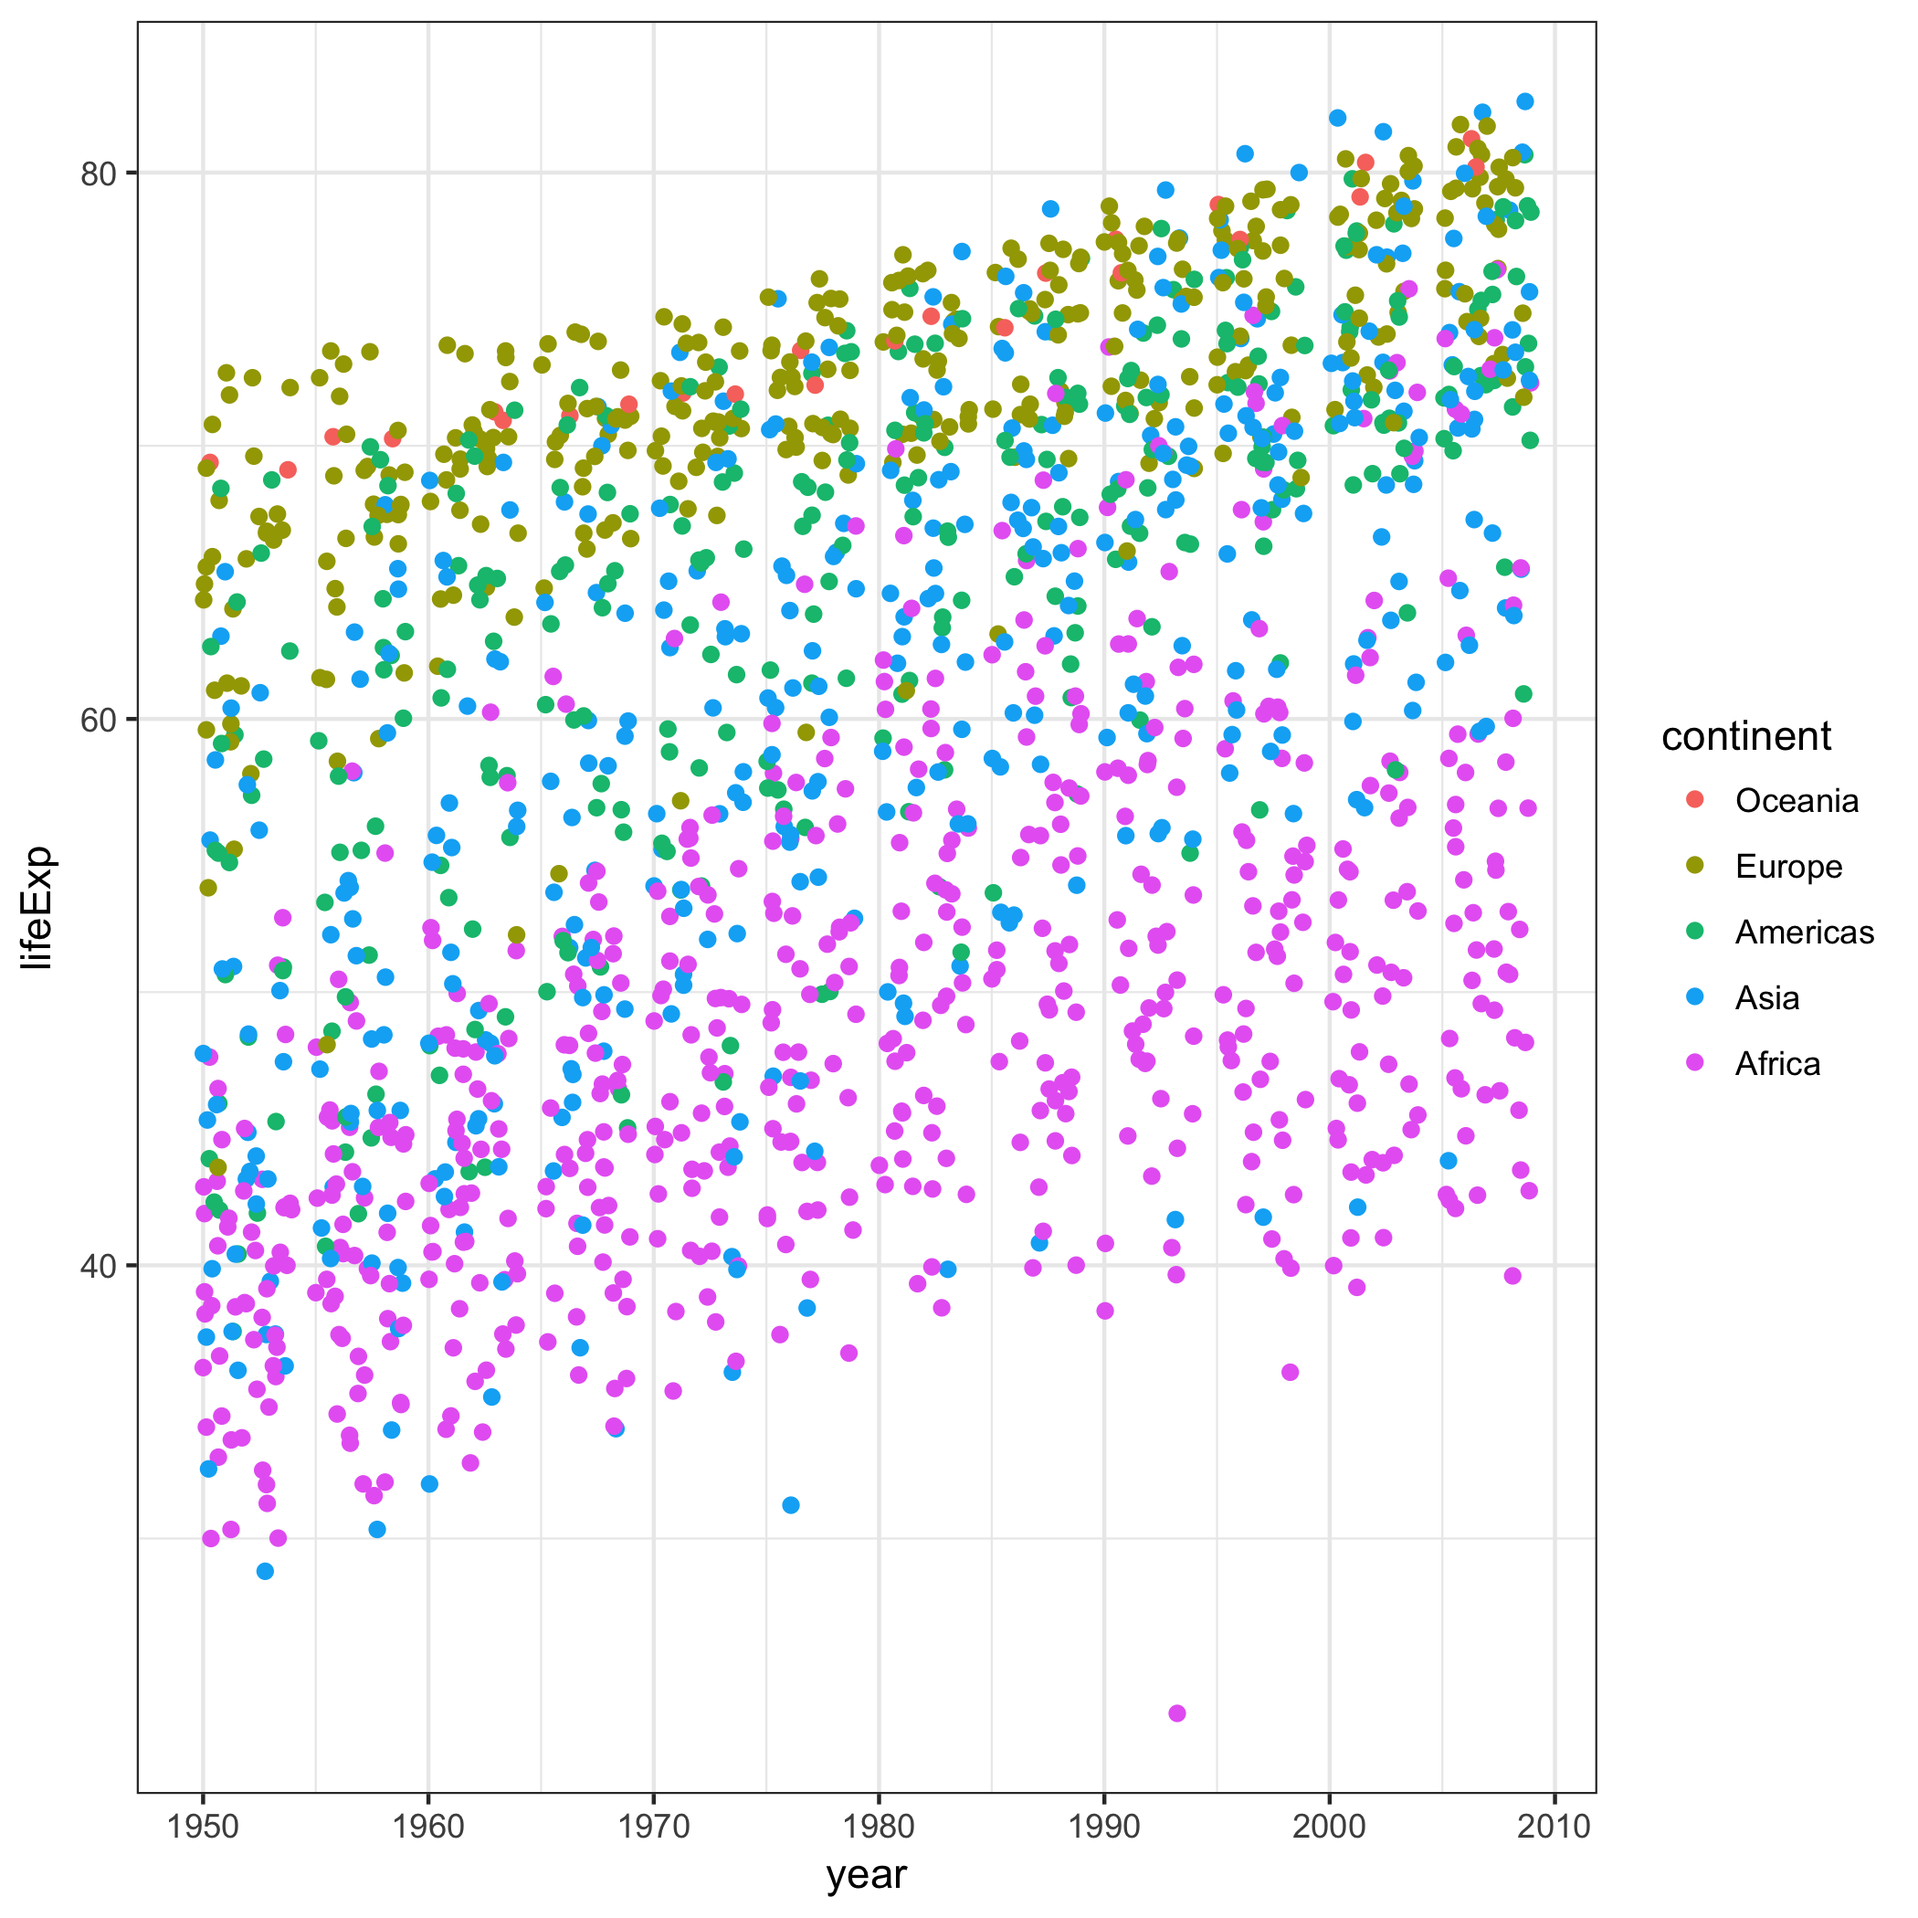
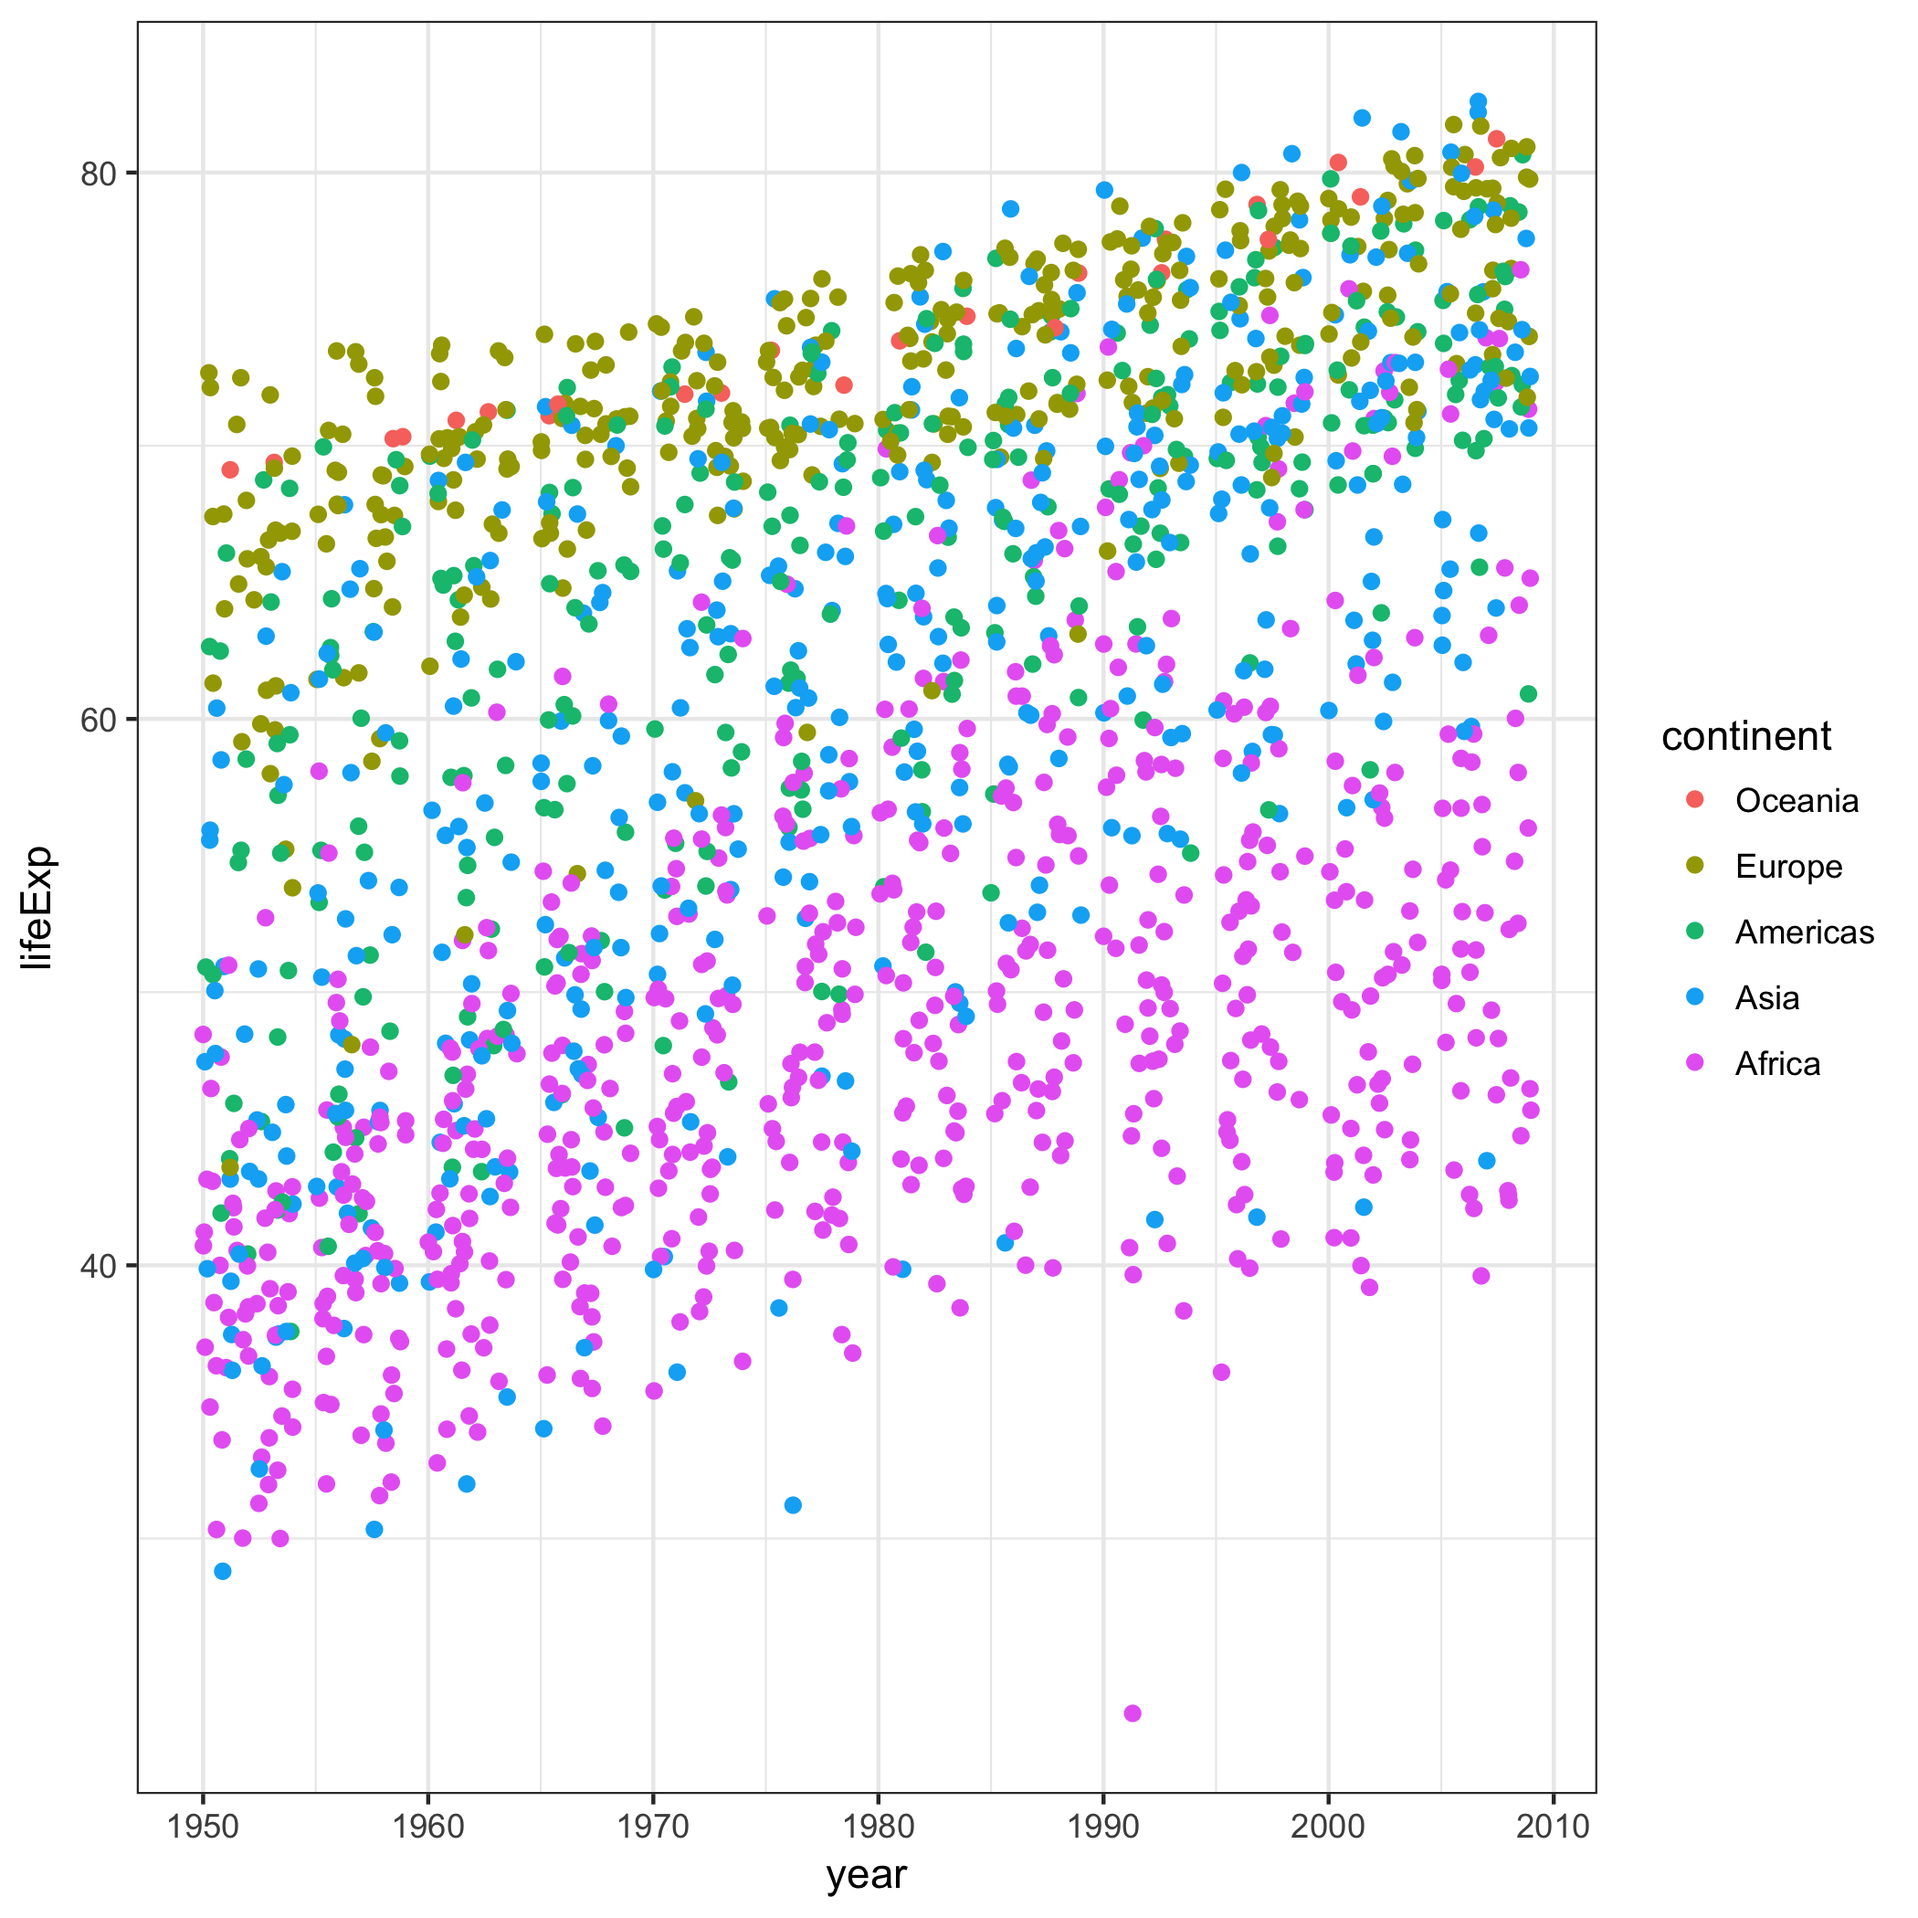
final commit

diff --git a/Homework 7/HW07.md b/Homework 7/HW07.md
@@ -40,10 +40,42 @@ I created an additional table to display the top 3 and worst 3 countries in each
 
 ![](best-worst-country-by-life-exp.png)
 
+As the homework requested, I created five graphs, one for each continent, with countries facet wrapped (I chose the top 3 and bottom 3 as indicated in the table) and fit the linear model to each of the graphs.
+
+See the [third R script](https://github.com/vanflad/STAT547-hw-fladmark-vanessa/blob/master/Homework%207/hw07-3.R) for details on the graphs or fancy pants tables!
+
+![](oceania-life-exp-by-country.png)
+
+Oceania only has two countries in it and they both have incrediby high life expectancy!
+
+![](europe-life-exp-by-country.png)
+
+We see that the countries with the highest life expectancy in Europe are some of the northern countries and Turkey has historically had incredibly low expectancy in comparison, especially back in the 1950's!
+
+![](americas-life-exp-by-country.png)
+
+Here the graph informs us that we live in the best country in North and South America for life expectancy, yay health care!! It's interesting to see the stark contrast of very high and very low life expectancies within the same continent, the countries that rank lower are usually less developed countries such as Haiti.
+
+![](asia-life-exp-by-country.png)
+
+Asia is also an incredibly interesting graph to compare countries, I had no idea that Israel had such a high life expectancy, although I knew Japan's was very high. Afghanistan's life expectancy has plateaued when it should be increasing according to the regression model and this is because of the war currently going on in that country. Also, Cambodia also had a war in the 1970's as can be seen by the crazy data point drop! I had to google what happened that was so drastic to create that break in the trend and it was a full on [genocide.](https://en.wikipedia.org/wiki/Cambodian_genocide)
+
+![](africa-life-exp-by-country.png)
+
+Honestly, I'm not familiar enough with Africa to know any of these countries but I searched [Reunion](https://en.wikipedia.org/wiki/R%C3%A9union) and it's a tiny island country off the coast of Madagascar with two volcanoes which seems pretty cool!
+
 Automate the pipeline
 ---------------------
+
+The last and [final R script](https://github.com/vanflad/STAT547-hw-fladmark-vanessa/blob/master/Homework%207/hw07-master.R) ran the first three R scripts, rendered this document to github and removed all the excess files floating around the folder!
 
 Troubleshooting/Links
 ---------------------
 
--
+-   How to use [R to automate](https://github.com/STAT545-UBC/STAT545-UBC.github.io/blob/master/automation10_holding-area/01_automation-example_just-r/Makefile.R) because Make is just too hard!
+-   Reminder how to jitter points for the colorful all-continent graph because I always forget that it's [position="jitter"](http://ggplot2.tidyverse.org/reference/geom_jitter.html) for ggplot not method="jitter" like in base-R
+-   Jenny Bryan explaining the error I was getting when I tried to run [fct\_reorder](https://github.com/STAT545-UBC/Discussion/issues/488) over a dataframe and that I should create a vector of the new printed levels and *then* reorder accordingly
+-   I always get response and explanitory variable mixed up in linear models and so I went to my other course Biol 501's webpage where they have "R tips" on [linear models](https://www.zoology.ubc.ca/~schluter/R/fit-model/)
+-   How to use [broom](https://github.com/tidyverse/broom) to make outputs from linear models nice!
+-   How I make my knitr::kable tables so flawless with the package [kableExtra!](https://haozhu233.github.io/kableExtra/awesome_table_in_pdf.pdf)
+-   How to [add a linear model to a plot](https://stackoverflow.com/questions/15633714/adding-a-regression-line-on-a-ggplot) without using `geom_smooth(method="lm")` since we want it by entire continent not fit to each of the facetted countries! *And that's about it for this one, I found some parts tricky (fct\_reorder was the bane of my existence for a few hours) and the entire thing time consuming (as always!) *What I especially didn't like was that I couldn't get the second table to say "Table 2:..." in the caption because kable\_as\_image always saves it as "Table 1:..." because there's only one table being saved at a time but if you integrate this method straight into RMarkdown, it will have the correct numbering system!
